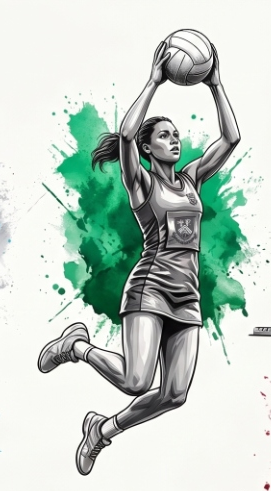
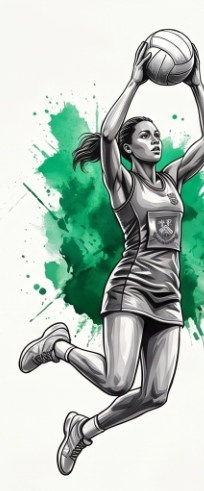
Fix: Clean up color patches in sports images, apply tight cropping to maximize image sizes, and reduce card paddings

diff --git a/src/components/SportsSection.tsx b/src/components/SportsSection.tsx
@@ -85,7 +85,7 @@ export default function SportsSection() {
                   alt={`${sport.name} illustration`}
                   fill
                   sizes="(max-width: 640px) 100vw, (max-width: 1024px) 50vw, 33vw"
-                  className="object-contain p-4 transition-transform duration-500 ease-out group-hover:scale-105"
+                  className="object-contain p-1.5 transition-transform duration-500 ease-out group-hover:scale-105"
                 />
               </div>
 

diff --git a/scratch/crop_sports.py b/scratch/crop_sports.py
@@ -10,21 +10,22 @@ def tight_crop(img, bg_color=(255, 255, 255)):
     min_x, min_y = width, height
     max_x, max_y = -1, -1
     
+    # We will find the true content bounds
     for y in range(height):
         for x in range(width):
             r, g, b, a = pixels[x, y]
-            # If the pixel is not white (thresholding for scanning/jpeg artifacts)
-            if r < 245 or g < 245 or b < 245:
+            # Pixel is non-white
+            if r < 248 or g < 248 or b < 248:
                 if x < min_x: min_x = x
                 if x > max_x: max_x = x
                 if y < min_y: min_y = y
                 if y > max_y: max_y = y
                 
-    if max_x == -1: # No non-white pixels found
+    if max_x == -1: # No content
         return img
         
-    # Add a small padding of 15 pixels
-    pad = 15
+    # Apply a tight padding of only 4 pixels to maximize the scale of the image on the card!
+    pad = 4
     min_x = max(0, min_x - pad)
     min_y = max(0, min_y - pad)
     max_x = min(width, max_x + pad)
@@ -43,19 +44,22 @@ def crop_sports():
     sheet = Image.open(sheet_path)
     w, h = sheet.size
     
-    # Define quadrants for the 5 sports on the sheet
+    # Tighter crop quadrants to avoid neighbor bleeding:
     # 1. Athletics (top-left runner with blue splash)
-    athletics_quad = (0, 0, int(w * 0.40), int(h * 0.48))
-    # 2. Basketball & Netball (top-middle player with green splash)
-    netball_quad = (int(w * 0.40), 0, int(w * 0.68), int(h * 0.48))
-    # 3. Swimming (bottom-right swimmer with teal splash)
-    swimming_quad = (int(w * 0.62), int(h * 0.62), w, h)
-    # 4. Chess (bottom-left hand with purple splash)
-    chess_quad = (0, int(h * 0.52), int(w * 0.38), h)
-    # 5. Scouting & Cadet (bottom-middle cadet saluting with gold splash)
-    cadet_quad = (int(w * 0.36), int(h * 0.48), int(w * 0.62), h)
+    athletics_quad = (0, 0, int(w * 0.38), int(h * 0.48))
     
-    # Crops & Saves
+    # 2. Basketball & Netball (top-middle player with green splash - trimmed sides to avoid blue and red)
+    netball_quad = (int(w * 0.42), 0, int(w * 0.63), int(h * 0.48))
+    
+    # 3. Swimming (bottom-right swimmer with teal splash - shifted right to avoid cadet's gold splash)
+    swimming_quad = (int(w * 0.64), int(h * 0.65), w, h)
+    
+    # 4. Chess (bottom-left hand with purple splash)
+    chess_quad = (0, int(h * 0.52), int(w * 0.35), h)
+    
+    # 5. Scouting & Cadet (bottom-middle cadet saluting with gold splash - trimmed to avoid purple and teal)
+    cadet_quad = (int(w * 0.38), int(h * 0.48), int(w * 0.61), h)
+    
     sports_to_crop = {
         "athletics": athletics_quad,
         "basketball_netball": netball_quad,
